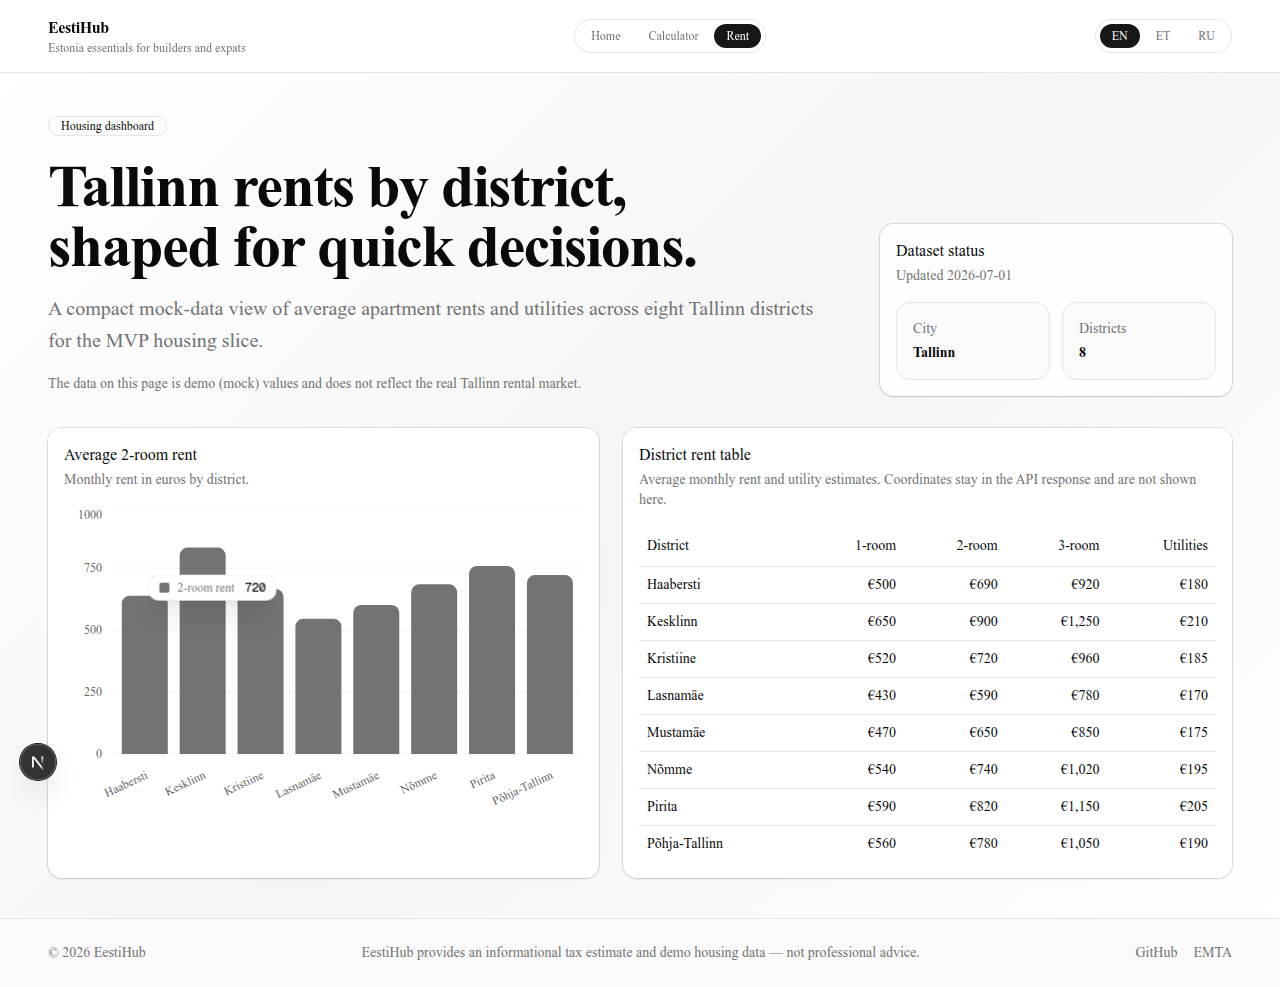
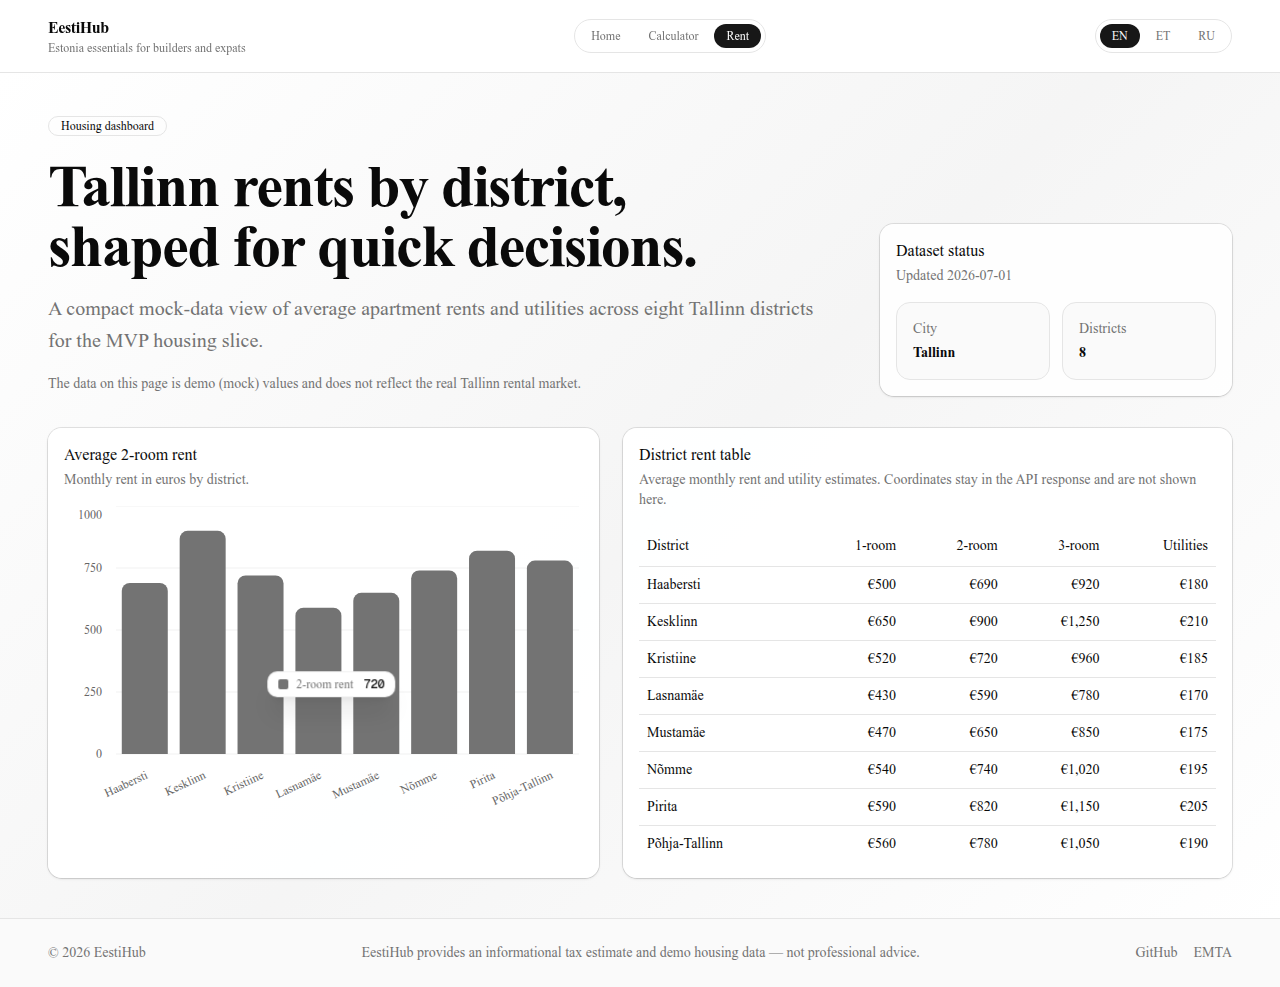
docs: accept T11 and re-capture screenshots on prod build

diff --git a/TODO.md b/TODO.md
@@ -38,10 +38,11 @@ Rules for workers:
 |---|------|-------|--------|--------|------------|
 | T10 | CI on GitHub Actions (pytest + build + e2e) | tasks/T10-ci.md | `[x]` | gpt-5.5 | T09 |
 | T12 | Calculator disclaimer + site footer | tasks/T12-disclaimer-footer.md | `[x]` | deepseek | T06, T07 |
-| T11 | README + MIT license + SEO (x-default, sitemap, robots, OG) | tasks/T11-readme-seo.md | `[R]` | deepseek-pro-v4 | T10, T12 |
+| T11 | README + MIT license + SEO (x-default, sitemap, robots, OG) | tasks/T11-readme-seo.md | `[x]` | deepseek-pro-v4 | T10, T12 |
 
 ## Journal (newest first)
 
+- 2026-07-09 · orchestrator · T11 review: accepted `[x]`. ITERATION 4 CLOSED — the project is ready for deploy. Verified independently: commit scope clean (two conventional commits, only README/LICENSE/screenshots/scripts + the four sanctioned frontend SEO files); `npm run build` clean with `/sitemap.xml` and `/robots.txt` as static routes; on a prod build + live backend — robots 200 (allow all + sitemap link), sitemap 200 with 9 URLs (3 pages × 3 locales) and per-URL alternates, hreflang with `x-default` → en on all three pages, OG title/description/type present and localized (checked en + ru); `npm run e2e` → 6 passed; MIT LICENSE correct; README commands match CONTEXT §7. One fix applied at review: the worker's screenshots were captured against the dev server and showed the Next.js dev-tools overlay bubble — re-captured by the orchestrator with the worker's own `frontend/scripts/screenshots.ts` against the prod build (content identical, overlay gone). Non-blocker: a Recharts tooltip freezes mid-chart on the housing fullPage screenshot (a known Playwright fullPage + Recharts hover artifact, not a code bug) — acceptable, revisit if screenshots are ever re-shot. Push + live CI run is the final gate. Next: deploy (owner's decision on the target platform).
 - 2026-07-09 · deepseek-pro-v4 · T11 done: replaced README with full English product description, CI badge, features, screenshots, architecture, Getting started/testing sections with copy-paste commands from CONTEXT §7, project tree, license; captured 3 screenshots via a manual Playwright script `frontend/scripts/screenshots.ts` (en locale, 1280×800, light theme) → `docs/screenshots/{home,calculator,housing}.png`; added MIT LICENSE (Copyright (c) 2026 Pavel Jevstignejev); added x-default hreflang pointing to /en on all three pages and the layout; created `sitemap.ts` (all pages × locales, absolute URLs from `NEXT_PUBLIC_SITE_URL`, default `http://localhost:3000`) and `robots.ts` (allow all + sitemap link); added OG metadata (title/description from dictionaries, type website) in the layout; added `NEXT_PUBLIC_SITE_URL` to `frontend/.env.example` · Verified: `npm run build` clean (sitemap and robots generated as static routes); `curl /sitemap.xml` → 200, 9 URLs (3 pages × 3 locales) with alternates; `curl /robots.txt` → 200, allow all + sitemap link; hreflang includes x-default on /en, /en/calculator and /en/housing (verified via curl + grep on production HTML); OG title/description/type present on all pages; `npm run e2e` → 6 passed. Two commits: `docs: english readme with screenshots and mit license` (8188db1), `feat(frontend): sitemap, robots and x-default hreflang` (95ebfb2).
 - 2026-07-09 · orchestrator · ASSIGNMENT: T11 (tasks/T11-readme-seo.md) → any available worker (owner's decision: no per-model assignment), work in `main`. Brief re-checked after the T10/T12 acceptances and the EestiHub rename — current, no edits needed. The worker sets `[>]` and fills in their name on taking the task. T11 is the last task before deploy.
 - 2026-07-09 · orchestrator · BRAND RENAME (owner's decision): EstiHub → **EestiHub** — grammatically correct Estonian ("Eesti") and matches the repo name. Docs renamed by the orchestrator (CLAUDE.md, AGENTS.md, README.md, CONTEXT.md, this board, T12 brief); code strings (frontend dictionaries + the FastAPI title) added as step 0 of the not-yet-started T12, with a one-line backend exception. Infrastructure identifiers (`estihub` DB user/database in compose/.env) intentionally stay as they are. Naming rationale recorded: plain "Eesti" is the country name — unbrandable, clashes with the official eesti.ee state portal and is hopeless for SEO; the "Hub" suffix says what the product is.